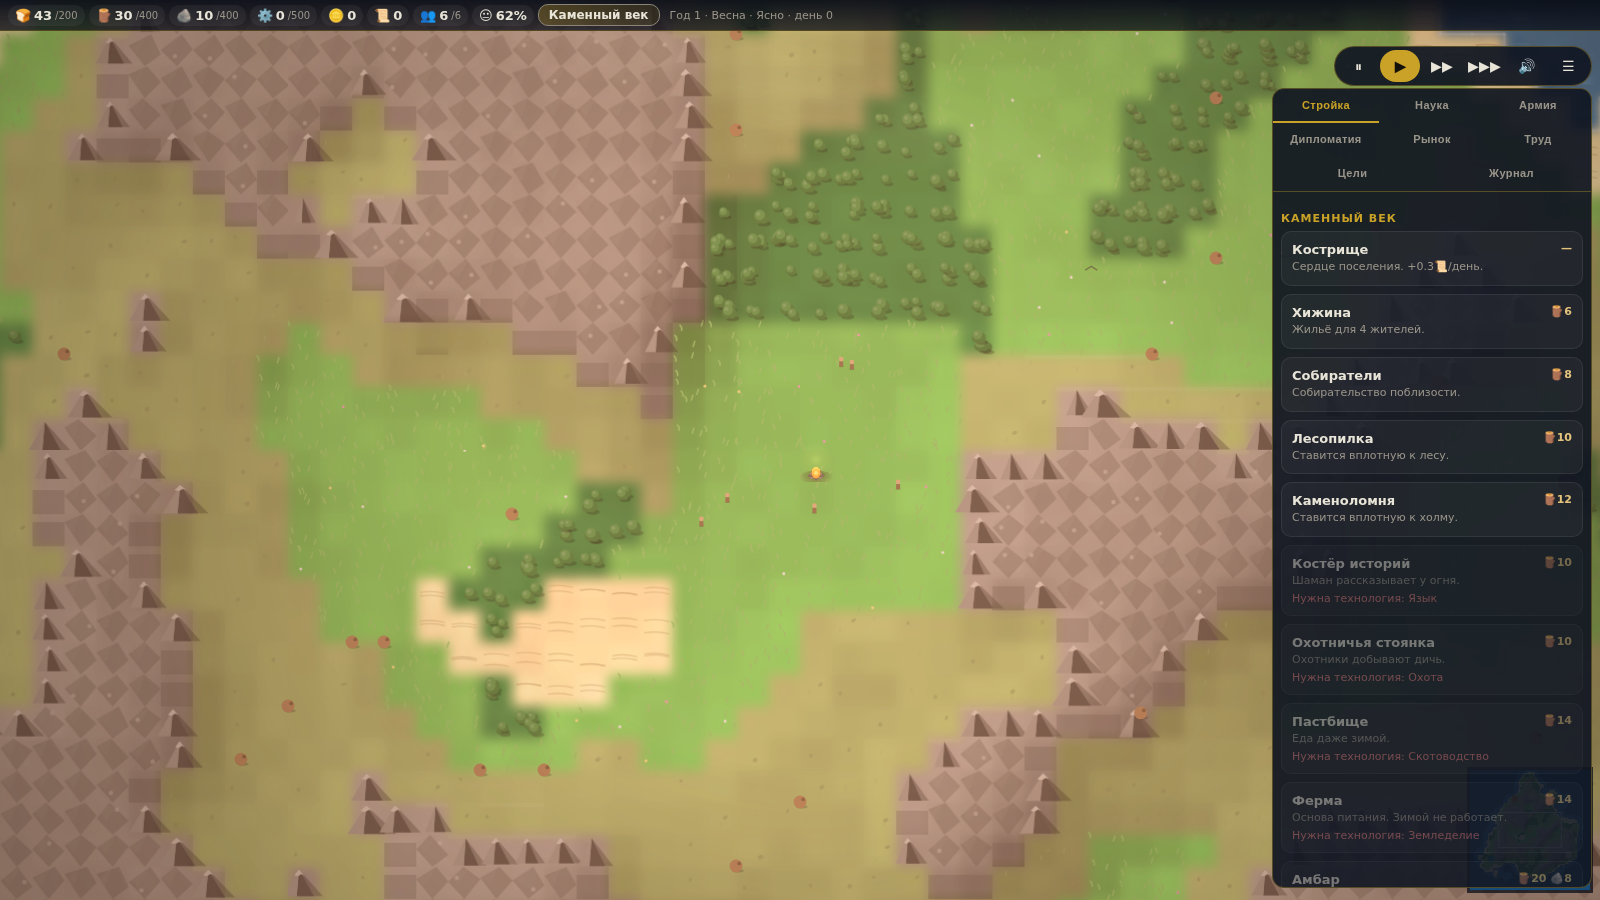
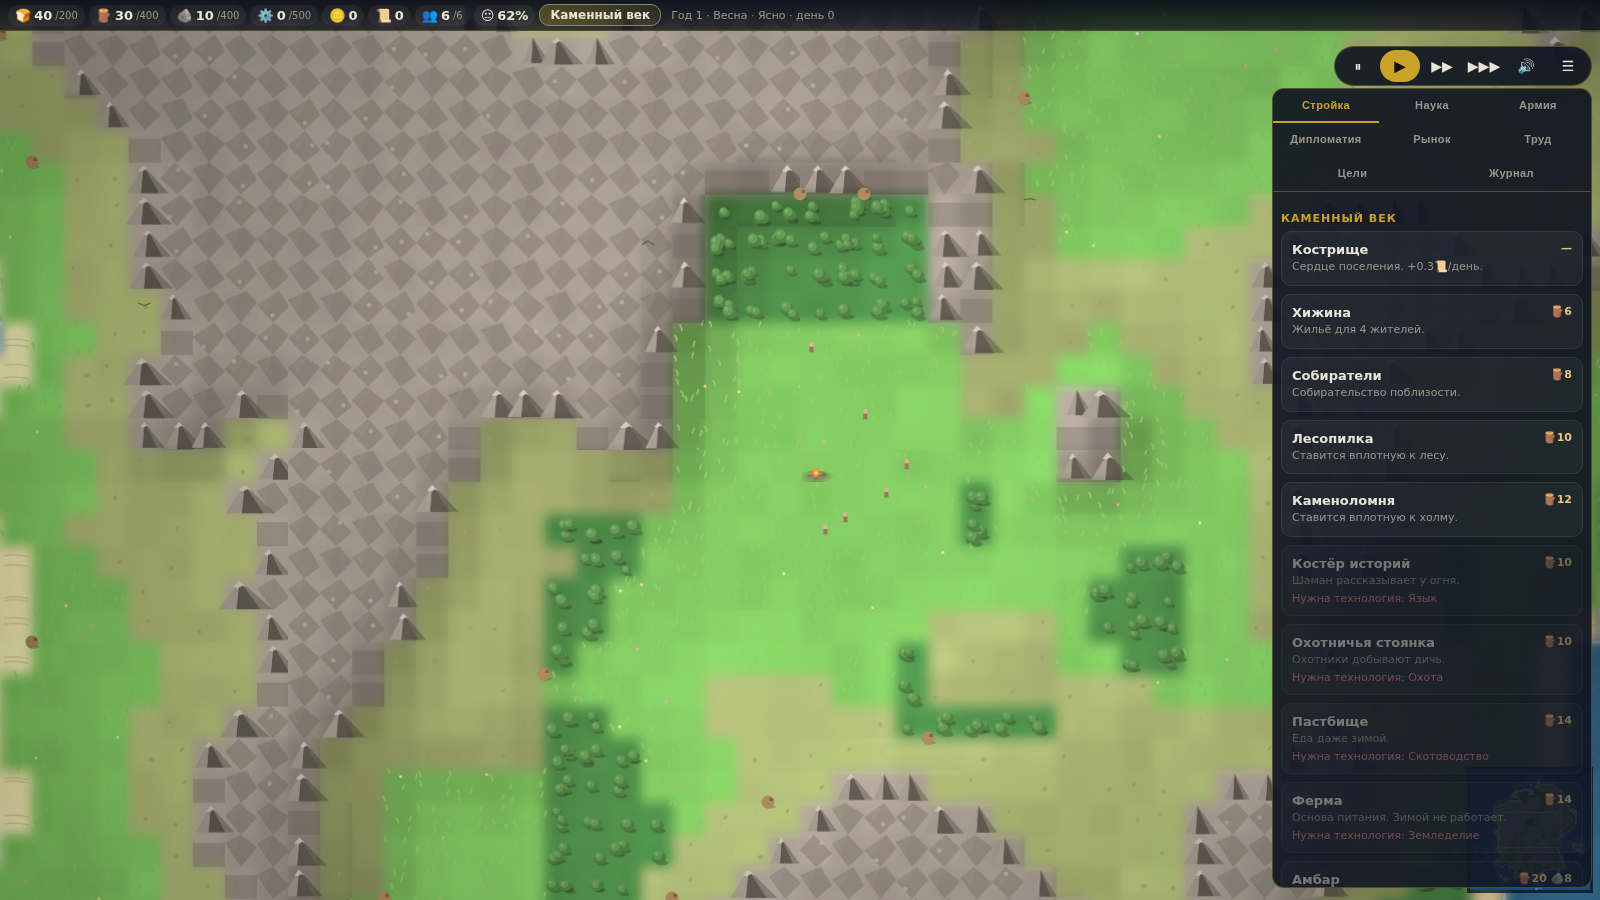
Фикс запуска в Safari: неогороженный localStorage ронял игру до первого кадра
Safari в приватном режиме и при «Блокировать все куки» кидает SecurityError
на любом обращении к localStorage. maybeOnboard() в main.js читал ключ без
try — исключение убивало инициализацию, выглядело как «игра не начинается».
Огорожены все четыре обращения (main.js, hud.js); saveSystem и quality уже
были под try. shot.mjs: явный путь к предустановленному Chromium.

Claude-Session: https://claude.ai/code/session_01A6YrcifM54qxcWsSEjEaM2

diff --git a/frontier.html b/frontier.html
@@ -1590,6 +1590,8 @@
     state.edges = [];
     state._acc = null;
     state._queue = null;
+    state.version = -1;
+    state.lastDay = -1;
   }
   function _acc(state, code) {
     if (!state._acc) state._acc = new Array(MAX_OWNER_CODE + 1).fill(null);
@@ -7464,12 +7466,18 @@ ${out}`;
       };
       c.querySelector("#coachSkip").onclick = () => {
         c.classList.remove("show");
-        localStorage.setItem("frontier_coached", "1");
+        try {
+          localStorage.setItem("frontier_coached", "1");
+        } catch {
+        }
       };
     }
     hideCoach() {
       this.el.coach.classList.remove("show");
-      localStorage.setItem("frontier_coached", "1");
+      try {
+        localStorage.setItem("frontier_coached", "1");
+      } catch {
+      }
     }
   };
 
@@ -7699,7 +7707,11 @@ ${out}`;
     if (!silent) hud.toast("Сейв загружен", "good");
   }
   function maybeOnboard() {
-    if (localStorage.getItem("frontier_coached")) return;
+    try {
+      if (localStorage.getItem("frontier_coached")) return;
+    } catch {
+      return;
+    }
     const steps = [
       { x: 20, y: 60, text: "👆 Это <b>ресурсы</b>: еда, дерево, камень, сталь, золото и знания. Следи за едой — без неё жители умирают.", btn: "Дальше" },
       { x: 20, y: window.innerHeight - 220, text: "🏗 Открой <b>СТРОЙКУ</b> внизу и выбери Хижину: перетащи призрак по карте и нажми ✓.", btn: "Понял" },
@@ -7944,7 +7956,10 @@ ${out}`;
       sim.execCommand("spire stage 5");
     }
     if (location.hash.includes("placing")) startPlacing("farm");
-    localStorage.setItem("frontier_coached", "1");
+    try {
+      localStorage.setItem("frontier_coached", "1");
+    } catch {
+    }
   }
   hud.refresh();
   requestAnimationFrame(frame);

diff --git a/app/src/main.js b/app/src/main.js
@@ -119,7 +119,10 @@ function loadFromJson(json, silent) {
 
 // ---------- онбординг (один раз) ----------
 function maybeOnboard() {
-  if (localStorage.getItem('frontier_coached')) return;
+  // Safari в приватном режиме и при «блокировать все куки» кидает SecurityError
+  // на любом обращении к localStorage. Без try игра умирала прямо здесь,
+  // до первого кадра — «не начинается» именно так и выглядело.
+  try { if (localStorage.getItem('frontier_coached')) return; } catch { return; }
   const steps = [
     { x: 20, y: 60, text: '👆 Это <b>ресурсы</b>: еда, дерево, камень, сталь, золото и знания. Следи за едой — без неё жители умирают.', btn: 'Дальше' },
     { x: 20, y: window.innerHeight - 220, text: '🏗 Открой <b>СТРОЙКУ</b> внизу и выбери Хижину: перетащи призрак по карте и нажми ✓.', btn: 'Понял' },
@@ -363,7 +366,7 @@ if (location.hash.startsWith('#autostart')) {
     sim.execCommand('spire stage 5');
   }
   if (location.hash.includes('placing')) startPlacing('farm');
-  localStorage.setItem('frontier_coached', '1');
+  try { localStorage.setItem('frontier_coached', '1'); } catch { /* не критично */ }
 }
 // первый прогон HUD сразу, чтобы панель не ждала таймер
 hud.refresh();

diff --git a/app/src/ui/hud.js b/app/src/ui/hud.js
@@ -615,7 +615,7 @@ export class Hud {
     c.style.top = Math.min(window.innerHeight - 160, Math.max(60, y)) + 'px';
     c.classList.add('show');
     c.querySelector('#coachNext').onclick = () => { this.audio.play('click'); onNext(); };
-    c.querySelector('#coachSkip').onclick = () => { c.classList.remove('show'); localStorage.setItem('frontier_coached', '1'); };
+    c.querySelector('#coachSkip').onclick = () => { c.classList.remove('show'); try { localStorage.setItem('frontier_coached', '1'); } catch { /* приватный режим */ } };
   }
-  hideCoach() { this.el.coach.classList.remove('show'); localStorage.setItem('frontier_coached', '1'); }
+  hideCoach() { this.el.coach.classList.remove('show'); try { localStorage.setItem('frontier_coached', '1'); } catch { /* приватный режим */ } }
 }
